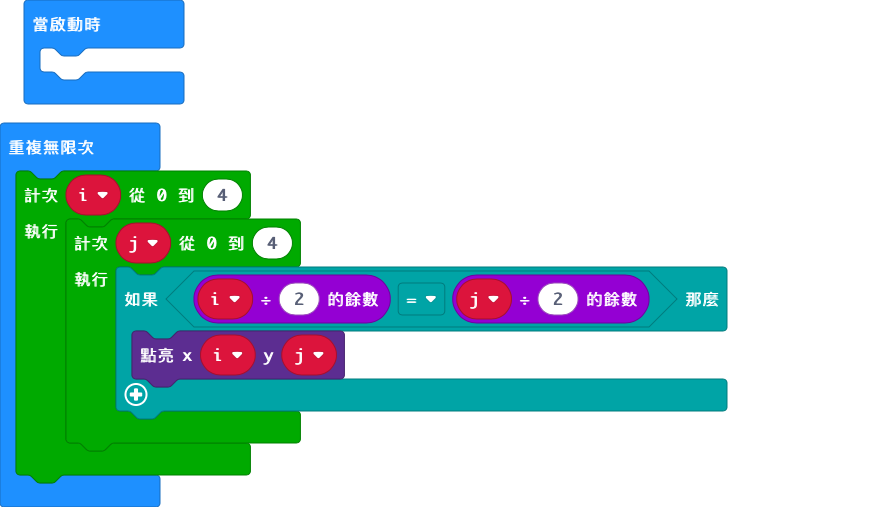
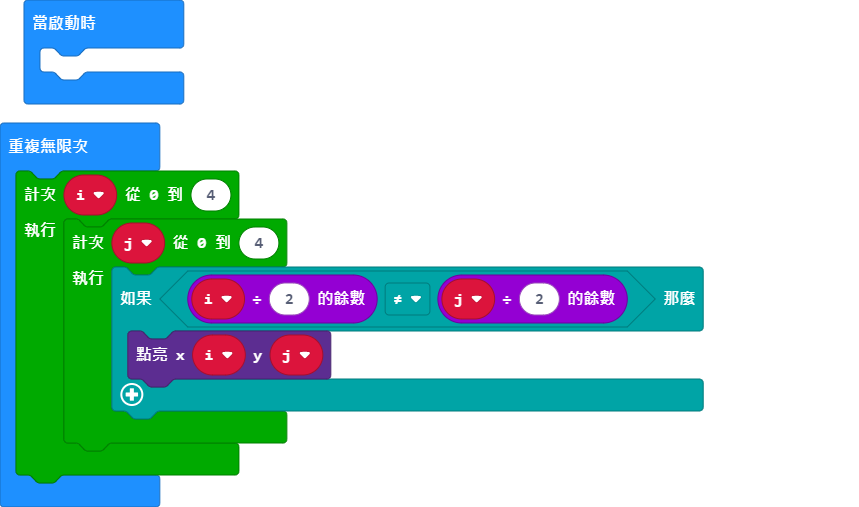
Update main.blocks, main.ts

diff --git a/main.ts b/main.ts
@@ -1,7 +1,7 @@
 basic.forever(function () {
     for (let i = 0; i <= 4; i++) {
         for (let j = 0; j <= 4; j++) {
-            if (i % 2 == j % 2) {
+            if (i % 2 != j % 2) {
                 led.plot(i, j)
             }
         }
